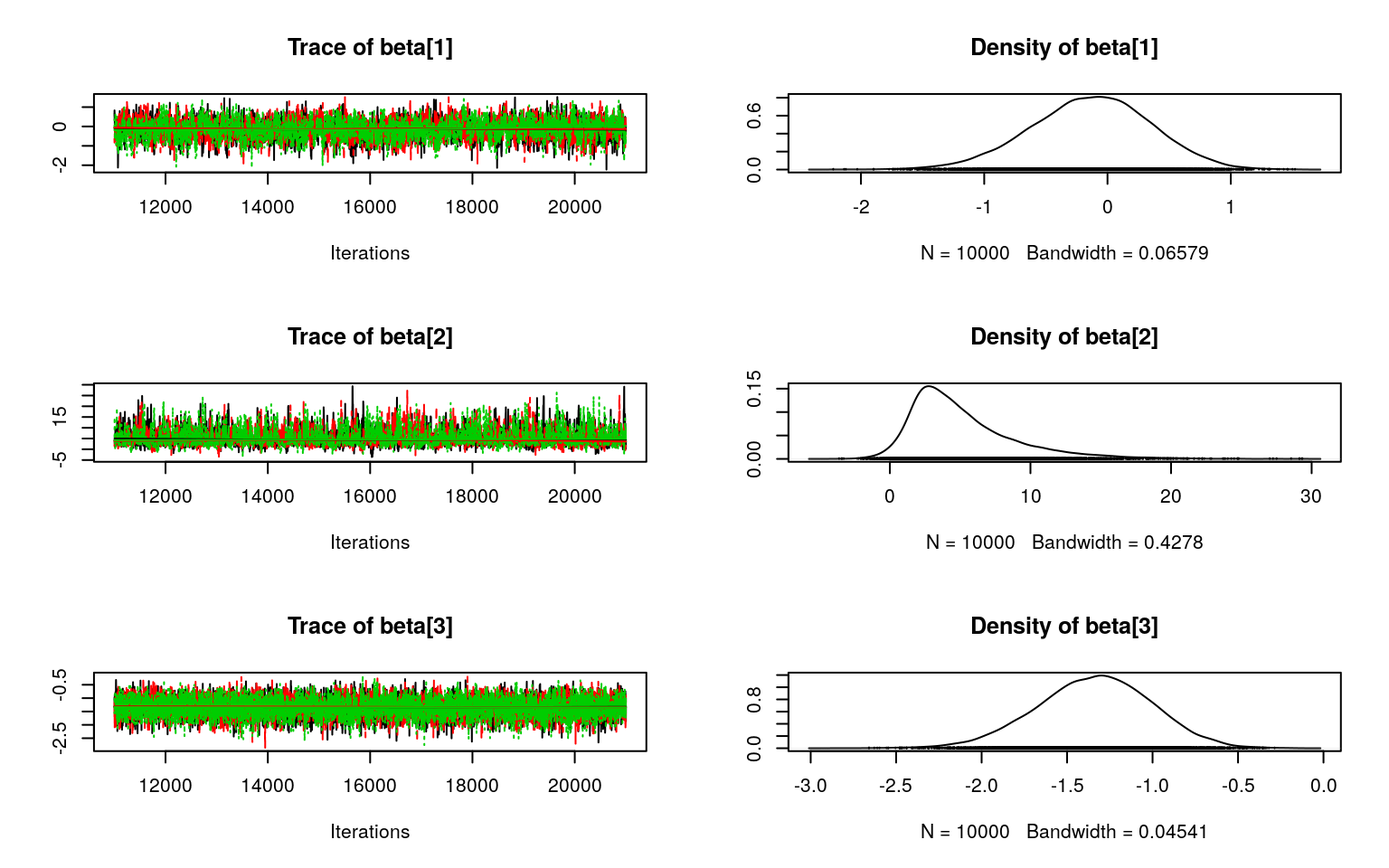
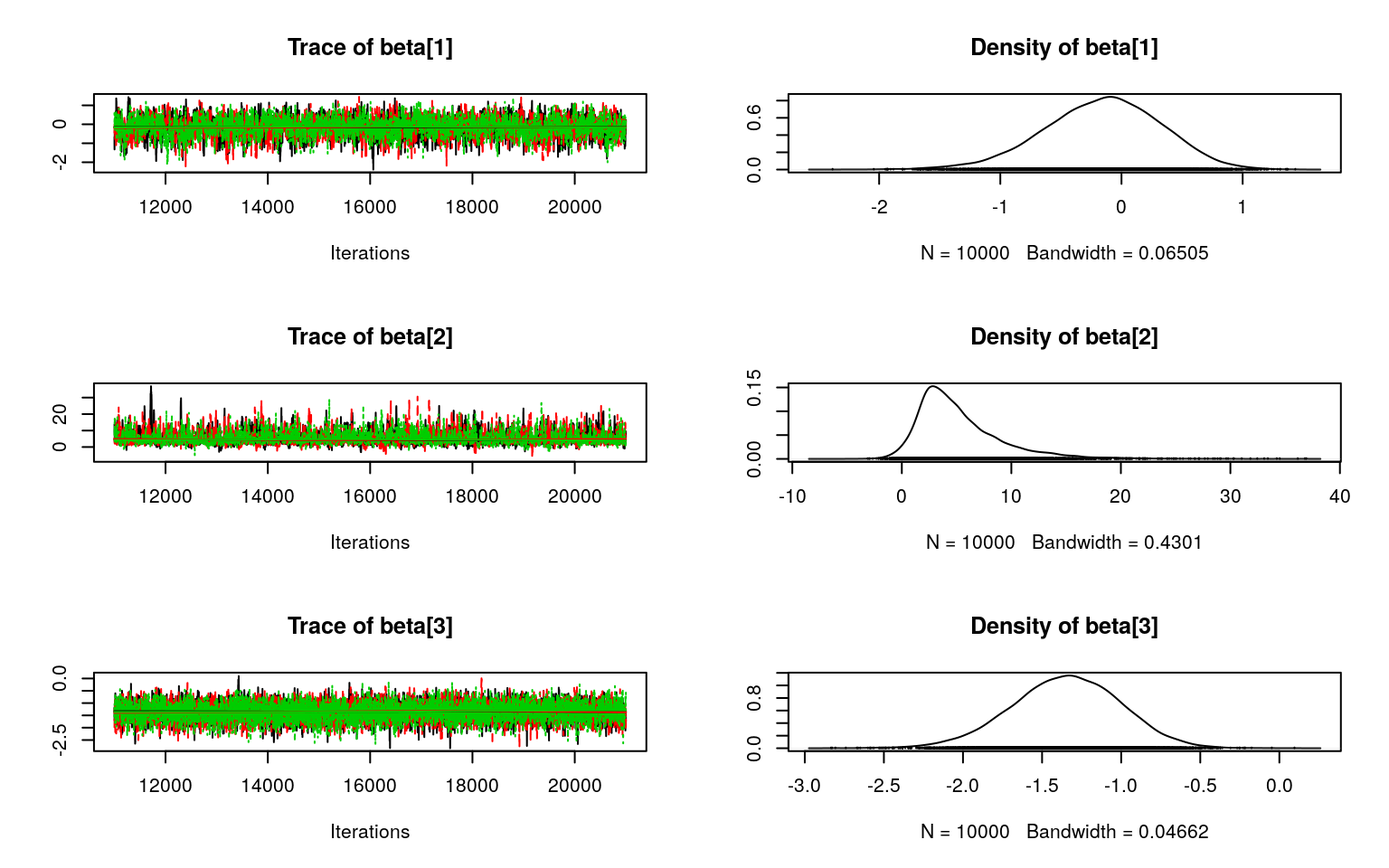
Add urls for links in occupancy post

diff --git a/docs/posts/2018-12-22-dynamic-community-occupancy-model-jags/index.html b/docs/posts/2018-12-22-dynamic-community-occupancy-model-jags/index.html
@@ -1335,25 +1335,25 @@ document.addEventListener('DOMContentLoaded', function() {
 <p>we can begin to consider occupancy. We’re interested in making inferences about the rates of colonization and population persistence for each species in a community, while estimating and accounting for imperfect detection.</p>
 <p>Occupancy status at site <span class="math inline">\(j\)</span>, by species <span class="math inline">\(i\)</span>, in year <span class="math inline">\(t\)</span> is represented by <span class="math inline">\(z(j,i,t)\)</span>. For occupied sites <span class="math inline">\(z=1\)</span>; for unoccupied sites <span class="math inline">\(z=0\)</span>. However, <span class="math inline">\(Z\)</span> is incompletely observed: it is possible that a species <span class="math inline">\(i\)</span> is present at a site <span class="math inline">\(j\)</span> in some year <span class="math inline">\(t\)</span> (<span class="math inline">\(z(j,i,t)=1\)</span>) but species <span class="math inline">\(i\)</span> was never seen at at site <span class="math inline">\(j\)</span> in year <span class="math inline">\(t\)</span> across all <span class="math inline">\(k\)</span> repeat surveys because of imperfect detection. These observations are represented by <span class="math inline">\(x(j,i,t,k)\)</span>. Here we assume that there are no “false positive” observations. In other words, if <span class="math inline">\(\sum_{1}^{k}x(j,i,t,k)&gt;0\)</span> , then <span class="math inline">\(z(j,i,t)=1\)</span>. If a site is occupied, the probability that <span class="math inline">\(x(j,i,t,k)=1\)</span> is represented as a Bernoulli trial with probability of detection <span class="math inline">\(p(j,i,t,k)\)</span>, such that</p>
 <p><span class="math display">\[
-x(j,i,t,k) \sim Bernoulli(z(j,i,t)p(j,i,t,k))
+x(j,i,t,k) \sim \text{Bernoulli}(z(j,i,t)p(j,i,t,k))
 \]</span></p>
 <p>The occupancy status <span class="math inline">\(z\)</span> of species <span class="math inline">\(i\)</span> at site <span class="math inline">\(j\)</span> in year <span class="math inline">\(t\)</span> is modeled as a Markov Bernoulli trial. In other words whether a species is present at a site in year <span class="math inline">\(t\)</span> is influenced by whether it was present at year <span class="math inline">\(t−1\)</span>.</p>
 <p><span class="math display">\[
-z(j,i,t) \sim Bernoulli(\psi_{j,i,t})
+z(j,i,t) \sim \text{Bernoulli}(\psi(j,i,t))
 \]</span></p>
 <p>where for <span class="math inline">\(t&gt;1\)</span></p>
 <p><span class="math display">\[
-logit(\psi_{j,i,t})=\beta_i + \rho_i z(i, j, t-1)
+\text{logit}(\psi_{j,i,t})=\beta_i + \rho_i z(i, j, t-1)
 \]</span></p>
 <p>and in year one <span class="math inline">\((t=1)\)</span></p>
 <p><span class="math display">\[
-logit(\psi_{j,i,1})=\beta_i + \rho_i z_0(i, j)
+\text{logit}(\psi_{j,i,1})=\beta_i + \rho_i z_0(i, j)
 \]</span></p>
-<p>where the occupancy status in year 0, <span class="math inline">\(z_0(i,j) \sim Bernoulli(\rho_{0i})\)</span>, and <span class="math inline">\(\rho_{0i} \sim Uniform(0,1)\)</span>. <span class="math inline">\(\beta_i\)</span> and <span class="math inline">\(\rho_i\)</span> are parameters that control the probabilities of colonization and persistence. If a site was unoccupied by species <span class="math inline">\(i\)</span> in a previous year <span class="math inline">\(z(i,j,t−1)=0\)</span>, then the probability of colonization is given by the antilogit of <span class="math inline">\(\beta_i\)</span>. If a site was previously occupied <span class="math inline">\(z(i,j,t−1)=1\)</span>, the probability of population persistence is given by the anitlogit of <span class="math inline">\(\beta_i + \rho_i\)</span>. We assume that the distributions of species specific parameters are defined by community level hyperparameters such that <span class="math inline">\(\beta_i \sim Norm(\mu_\beta, \sigma_\beta)\)</span> and <span class="math inline">\(rho_i \sim Norm(\mu_\rho, \sigma_\rho)\)</span>. We can generate occupancy data as follows:</p>
+<p>where the occupancy status in year 0, <span class="math inline">\(z_0(i,j) \sim \text{Bernoulli}(\rho_{0i})\)</span>, and <span class="math inline">\(\rho_{0i} \sim \text{Uniform}(0,1)\)</span>. <span class="math inline">\(\beta_i\)</span> and <span class="math inline">\(\rho_i\)</span> are parameters that control the probabilities of colonization and persistence. If a site was unoccupied by species <span class="math inline">\(i\)</span> in a previous year <span class="math inline">\(z(i,j,t−1)=0\)</span>, then the probability of colonization is given by the antilogit of <span class="math inline">\(\beta_i\)</span>. If a site was previously occupied <span class="math inline">\(z(i,j,t−1)=1\)</span>, the probability of population persistence is given by the anitlogit of <span class="math inline">\(\beta_i + \rho_i\)</span>. We assume that the distributions of species specific parameters are defined by community level hyperparameters such that <span class="math inline">\(\beta_i \sim \text{Normal}(\mu_\beta, \sigma_\beta)\)</span> and <span class="math inline">\(rho_i \sim \text{Normal}(\mu_\rho, \sigma_\rho)\)</span>. We can generate occupancy data as follows:</p>
 <div class="layout-chunk" data-layout="l-body">
 
 </div>
-<p>For simplicity, we’ll assume that there are no differences in species detectability among sites, years, or repeat surveys, but that detectability varies among species. We’ll again use hyperparameters to specify a distribution of detection probabilities in our community, such that <span class="math inline">\(logit(p_i) \sim Norm(\mu_p, \sigma_p)\)</span>.</p>
+<p>For simplicity, we’ll assume that there are no differences in species detectability among sites, years, or repeat surveys, but that detectability varies among species. We’ll again use hyperparameters to specify a distribution of detection probabilities in our community, such that <span class="math inline">\(\text{logit}(p_i) \sim \text{Normal}(\mu_p, \sigma_p)\)</span>.</p>
 <div class="layout-chunk" data-layout="l-body">
 
 </div>
@@ -1400,51 +1400,51 @@ Sample size per chain = 10000
    plus standard error of the mean:
 
              Mean     SD Naive SE Time-series SE
-beta[1] -0.136404 0.4879 0.002817       0.011299
-beta[2]  5.107996 3.7142 0.021444       0.080598
-beta[3] -1.342948 0.3370 0.001946       0.004372
-beta[4]  5.034333 3.7981 0.021928       0.095132
-lp[1]    3.869905 0.7093 0.004095       0.006394
-lp[2]    0.940678 0.1951 0.001126       0.002081
-lp[3]    2.378986 0.6247 0.003606       0.005574
-lp[4]   -0.001175 0.1919 0.001108       0.002960
-rho[1]   1.297504 0.5952 0.003436       0.014102
-rho[2]   1.660380 2.5078 0.014479       0.059563
-rho[3]   0.561936 0.6108 0.003526       0.010942
-rho[4]   1.145660 2.6906 0.015534       0.075605
+beta[1] -0.157689 0.4843 0.002796       0.010618
+beta[2]  5.202259 3.8945 0.022485       0.088729
+beta[3] -1.350593 0.3457 0.001996       0.004570
+beta[4]  5.011672 3.7619 0.021719       0.096885
+lp[1]    3.871359 0.7066 0.004080       0.006500
+lp[2]    0.938340 0.1937 0.001119       0.002011
+lp[3]    2.374913 0.6322 0.003650       0.005666
+lp[4]   -0.001276 0.1909 0.001102       0.002875
+rho[1]   1.325605 0.5899 0.003406       0.013661
+rho[2]   1.724383 2.7188 0.015697       0.085649
+rho[3]   0.576876 0.6177 0.003566       0.011654
+rho[4]   1.264257 2.8261 0.016316       0.090603
 
 2. Quantiles for each variable:
 
-           2.5%      25%      50%     75%   97.5%
-beta[1] -1.1297 -0.45672 -0.12035  0.1970  0.7851
-beta[2]  0.2229  2.53572  4.23082  6.7867 14.7987
-beta[3] -2.0239 -1.56305 -1.33150 -1.1119 -0.7059
-beta[4]  0.6354  2.46984  3.99294  6.5255 15.3499
-lp[1]    2.6790  3.37180  3.80306  4.2836  5.4722
-lp[2]    0.5758  0.80767  0.93255  1.0652  1.3462
-lp[3]    1.2649  1.94503  2.33922  2.7715  3.7230
-lp[4]   -0.3487 -0.13123 -0.01167  0.1167  0.4170
-rho[1]   0.1758  0.89454  1.27950  1.6910  2.5119
-rho[2]  -2.1637  0.43776  1.19299  2.3376  8.3312
-rho[3]  -0.6816  0.16553  0.58093  0.9767  1.7161
-rho[4]  -3.4377  0.04748  0.92744  1.8717  7.6874</code></pre>
+           2.5%     25%      50%     75%   97.5%
+beta[1] -1.1622 -0.4697 -0.13622  0.1767  0.7314
+beta[2]  0.1138  2.5813  4.28823  6.8553 15.1585
+beta[3] -2.0560 -1.5771 -1.34198 -1.1131 -0.6959
+beta[4]  0.5211  2.4385  3.97110  6.5990 14.8174
+lp[1]    2.6936  3.3733  3.80044  4.2916  5.4678
+lp[2]    0.5759  0.8056  0.93105  1.0644  1.3348
+lp[3]    1.2492  1.9377  2.33086  2.7639  3.7441
+lp[4]   -0.3497 -0.1307 -0.01108  0.1155  0.4100
+rho[1]   0.2366  0.9196  1.30965  1.7035  2.5554
+rho[2]  -2.3450  0.4488  1.23522  2.4508  8.5978
+rho[3]  -0.7079  0.1765  0.59449  1.0063  1.7092
+rho[4]  -3.5067  0.0641  0.97623  1.9416  8.3755</code></pre>
 <p><img src="dynamic-community-occupancy-model-jags_files/figure-html5/fit-model-1.png" width="768" /><img src="dynamic-community-occupancy-model-jags_files/figure-html5/fit-model-2.png" width="768" /><img src="dynamic-community-occupancy-model-jags_files/figure-html5/fit-model-3.png" width="768" /><img src="dynamic-community-occupancy-model-jags_files/figure-html5/fit-model-4.png" width="768" /></p>
 </div>
 <div id="refs" class="references">
 <div id="ref-dorazio2010models">
-<p>Dorazio, Robert M, Marc Kery, J Andrew Royle, and Matthias Plattner. 2010. “Models for Inference in Dynamic Metacommunity Systems.” <em>Ecology</em> 91 (8): 2466–75.</p>
+<p>Dorazio, Robert M, Marc Kery, J Andrew Royle, and Matthias Plattner. 2010. “Models for Inference in Dynamic Metacommunity Systems.” <em>Ecology</em> 91 (8): 2466–75. <a href="https://doi.org/10.1890/09-1033.1">https://doi.org/10.1890/09-1033.1</a>.</p>
 </div>
 <div id="ref-kery2008hierarchical">
-<p>Kéry, M, and J Andrew Royle. 2008. “Hierarchical Bayes Estimation of Species Richness and Occupancy in Spatially Replicated Surveys.” <em>Journal of Applied Ecology</em> 45 (2): 589–98.</p>
+<p>Kéry, M, and J Andrew Royle. 2008. “Hierarchical Bayes Estimation of Species Richness and Occupancy in Spatially Replicated Surveys.” <em>Journal of Applied Ecology</em> 45 (2): 589–98. <a href="https://doi.org/10.1111/j.1365-2664.2007.01441.x">https://doi.org/10.1111/j.1365-2664.2007.01441.x</a>.</p>
 </div>
 <div id="ref-mackenzie2002estimating">
-<p>MacKenzie, Darryl I, James D Nichols, Gideon B Lachman, Sam Droege, J Andrew Royle, and Catherine A Langtimm. 2002. “Estimating Site Occupancy Rates When Detection Probabilities Are Less Than One.” <em>Ecology</em> 83 (8): 2248–55.</p>
+<p>MacKenzie, Darryl I, James D Nichols, Gideon B Lachman, Sam Droege, J Andrew Royle, and Catherine A Langtimm. 2002. “Estimating Site Occupancy Rates When Detection Probabilities Are Less Than One.” <em>Ecology</em> 83 (8): 2248–55. <a href="https://doi.org/10.1890/0012-9658(2002)083[2248:ESORWD]2.0.CO;2">https://doi.org/10.1890/0012-9658(2002)083[2248:ESORWD]2.0.CO;2</a>.</p>
 </div>
 <div id="ref-royle2008hierarchical">
-<p>Royle, J Andrew, and Robert M Dorazio. 2008. <em>Hierarchical Modeling and Inference in Ecology: The Analysis of Data from Populations, Metapopulations and Communities</em>. Elsevier.</p>
+<p>Royle, J Andrew, and Robert M Dorazio. 2008. <em>Hierarchical Modeling and Inference in Ecology: The Analysis of Data from Populations, Metapopulations and Communities</em>. Elsevier. <a href="https://doi.org/10.1016/B978-0-12-374097-7.50001-5">https://doi.org/10.1016/B978-0-12-374097-7.50001-5</a>.</p>
 </div>
 <div id="ref-royle2007bayesian">
-<p>Royle, J Andrew, and Marc Kéry. 2007. “A Bayesian State-Space Formulation of Dynamic Occupancy Models.” <em>Ecology</em> 88 (7): 1813–23.</p>
+<p>Royle, J Andrew, and Marc Kéry. 2007. “A Bayesian State-Space Formulation of Dynamic Occupancy Models.” <em>Ecology</em> 88 (7): 1813–23. <a href="https://doi.org/10.1890/06-0669.1">https://doi.org/10.1890/06-0669.1</a>.</p>
 </div>
 </div>
 <!--radix_placeholder_article_footer-->
@@ -1480,7 +1480,8 @@ rho[4]  -3.4377  0.04748  0.92744  1.8717  7.6874</code></pre>
   number={8},
   pages={2248--2255},
   year={2002},
-  publisher={Wiley Online Library}
+  publisher={Wiley Online Library}, 
+  url={https://doi.org/10.1890/0012-9658(2002)083[2248:ESORWD]2.0.CO;2}
 }
 
 @article{royle2007bayesian,
@@ -1491,7 +1492,8 @@ rho[4]  -3.4377  0.04748  0.92744  1.8717  7.6874</code></pre>
   number={7},
   pages={1813--1823},
   year={2007},
-  publisher={Wiley Online Library}
+  publisher={Wiley Online Library}, 
+  url={https://doi.org/10.1890/06-0669.1}
 }
 
 @article{kery2008hierarchical,
@@ -1502,7 +1504,8 @@ rho[4]  -3.4377  0.04748  0.92744  1.8717  7.6874</code></pre>
   number={2},
   pages={589--598},
   year={2008},
-  publisher={Wiley Online Library}
+  publisher={Wiley Online Library}, 
+  url={https://doi.org/10.1111/j.1365-2664.2007.01441.x}
 }
 
 @article{dorazio2010models,
@@ -1513,14 +1516,16 @@ rho[4]  -3.4377  0.04748  0.92744  1.8717  7.6874</code></pre>
   number={8},
   pages={2466--2475},
   year={2010},
-  publisher={Wiley Online Library}
+  publisher={Wiley Online Library}, 
+  url={https://doi.org/10.1890/09-1033.1}
 }
 
 @book{royle2008hierarchical,
   title={Hierarchical modeling and inference in ecology: the analysis of data from populations, metapopulations and communities},
   author={Royle, J Andrew and Dorazio, Robert M},
   year={2008},
-  publisher={Elsevier}
+  publisher={Elsevier}, 
+  url={https://doi.org/10.1016/B978-0-12-374097-7.50001-5}
 }
 
 </script>

diff --git a/_posts/2018-12-22-dynamic-community-occupancy-model-jags/dynamic-community-occupancy-model-jags.html b/_posts/2018-12-22-dynamic-community-occupancy-model-jags/dynamic-community-occupancy-model-jags.html
@@ -977,25 +977,25 @@
 <p>we can begin to consider occupancy. We’re interested in making inferences about the rates of colonization and population persistence for each species in a community, while estimating and accounting for imperfect detection.</p>
 <p>Occupancy status at site <span class="math inline">\(j\)</span>, by species <span class="math inline">\(i\)</span>, in year <span class="math inline">\(t\)</span> is represented by <span class="math inline">\(z(j,i,t)\)</span>. For occupied sites <span class="math inline">\(z=1\)</span>; for unoccupied sites <span class="math inline">\(z=0\)</span>. However, <span class="math inline">\(Z\)</span> is incompletely observed: it is possible that a species <span class="math inline">\(i\)</span> is present at a site <span class="math inline">\(j\)</span> in some year <span class="math inline">\(t\)</span> (<span class="math inline">\(z(j,i,t)=1\)</span>) but species <span class="math inline">\(i\)</span> was never seen at at site <span class="math inline">\(j\)</span> in year <span class="math inline">\(t\)</span> across all <span class="math inline">\(k\)</span> repeat surveys because of imperfect detection. These observations are represented by <span class="math inline">\(x(j,i,t,k)\)</span>. Here we assume that there are no “false positive” observations. In other words, if <span class="math inline">\(\sum_{1}^{k}x(j,i,t,k)&gt;0\)</span> , then <span class="math inline">\(z(j,i,t)=1\)</span>. If a site is occupied, the probability that <span class="math inline">\(x(j,i,t,k)=1\)</span> is represented as a Bernoulli trial with probability of detection <span class="math inline">\(p(j,i,t,k)\)</span>, such that</p>
 <p><span class="math display">\[
-x(j,i,t,k) \sim Bernoulli(z(j,i,t)p(j,i,t,k))
+x(j,i,t,k) \sim \text{Bernoulli}(z(j,i,t)p(j,i,t,k))
 \]</span></p>
 <p>The occupancy status <span class="math inline">\(z\)</span> of species <span class="math inline">\(i\)</span> at site <span class="math inline">\(j\)</span> in year <span class="math inline">\(t\)</span> is modeled as a Markov Bernoulli trial. In other words whether a species is present at a site in year <span class="math inline">\(t\)</span> is influenced by whether it was present at year <span class="math inline">\(t−1\)</span>.</p>
 <p><span class="math display">\[
-z(j,i,t) \sim Bernoulli(\psi_{j,i,t})
+z(j,i,t) \sim \text{Bernoulli}(\psi(j,i,t))
 \]</span></p>
 <p>where for <span class="math inline">\(t&gt;1\)</span></p>
 <p><span class="math display">\[
-logit(\psi_{j,i,t})=\beta_i + \rho_i z(i, j, t-1)
+\text{logit}(\psi_{j,i,t})=\beta_i + \rho_i z(i, j, t-1)
 \]</span></p>
 <p>and in year one <span class="math inline">\((t=1)\)</span></p>
 <p><span class="math display">\[
-logit(\psi_{j,i,1})=\beta_i + \rho_i z_0(i, j)
+\text{logit}(\psi_{j,i,1})=\beta_i + \rho_i z_0(i, j)
 \]</span></p>
-<p>where the occupancy status in year 0, <span class="math inline">\(z_0(i,j) \sim Bernoulli(\rho_{0i})\)</span>, and <span class="math inline">\(\rho_{0i} \sim Uniform(0,1)\)</span>. <span class="math inline">\(\beta_i\)</span> and <span class="math inline">\(\rho_i\)</span> are parameters that control the probabilities of colonization and persistence. If a site was unoccupied by species <span class="math inline">\(i\)</span> in a previous year <span class="math inline">\(z(i,j,t−1)=0\)</span>, then the probability of colonization is given by the antilogit of <span class="math inline">\(\beta_i\)</span>. If a site was previously occupied <span class="math inline">\(z(i,j,t−1)=1\)</span>, the probability of population persistence is given by the anitlogit of <span class="math inline">\(\beta_i + \rho_i\)</span>. We assume that the distributions of species specific parameters are defined by community level hyperparameters such that <span class="math inline">\(\beta_i \sim Norm(\mu_\beta, \sigma_\beta)\)</span> and <span class="math inline">\(rho_i \sim Norm(\mu_\rho, \sigma_\rho)\)</span>. We can generate occupancy data as follows:</p>
+<p>where the occupancy status in year 0, <span class="math inline">\(z_0(i,j) \sim \text{Bernoulli}(\rho_{0i})\)</span>, and <span class="math inline">\(\rho_{0i} \sim \text{Uniform}(0,1)\)</span>. <span class="math inline">\(\beta_i\)</span> and <span class="math inline">\(\rho_i\)</span> are parameters that control the probabilities of colonization and persistence. If a site was unoccupied by species <span class="math inline">\(i\)</span> in a previous year <span class="math inline">\(z(i,j,t−1)=0\)</span>, then the probability of colonization is given by the antilogit of <span class="math inline">\(\beta_i\)</span>. If a site was previously occupied <span class="math inline">\(z(i,j,t−1)=1\)</span>, the probability of population persistence is given by the anitlogit of <span class="math inline">\(\beta_i + \rho_i\)</span>. We assume that the distributions of species specific parameters are defined by community level hyperparameters such that <span class="math inline">\(\beta_i \sim \text{Normal}(\mu_\beta, \sigma_\beta)\)</span> and <span class="math inline">\(rho_i \sim \text{Normal}(\mu_\rho, \sigma_\rho)\)</span>. We can generate occupancy data as follows:</p>
 <div class="layout-chunk" data-layout="l-body">
 
 </div>
-<p>For simplicity, we’ll assume that there are no differences in species detectability among sites, years, or repeat surveys, but that detectability varies among species. We’ll again use hyperparameters to specify a distribution of detection probabilities in our community, such that <span class="math inline">\(logit(p_i) \sim Norm(\mu_p, \sigma_p)\)</span>.</p>
+<p>For simplicity, we’ll assume that there are no differences in species detectability among sites, years, or repeat surveys, but that detectability varies among species. We’ll again use hyperparameters to specify a distribution of detection probabilities in our community, such that <span class="math inline">\(\text{logit}(p_i) \sim \text{Normal}(\mu_p, \sigma_p)\)</span>.</p>
 <div class="layout-chunk" data-layout="l-body">
 
 </div>
@@ -1042,51 +1042,51 @@ Sample size per chain = 10000
    plus standard error of the mean:
 
              Mean     SD Naive SE Time-series SE
-beta[1] -0.136404 0.4879 0.002817       0.011299
-beta[2]  5.107996 3.7142 0.021444       0.080598
-beta[3] -1.342948 0.3370 0.001946       0.004372
-beta[4]  5.034333 3.7981 0.021928       0.095132
-lp[1]    3.869905 0.7093 0.004095       0.006394
-lp[2]    0.940678 0.1951 0.001126       0.002081
-lp[3]    2.378986 0.6247 0.003606       0.005574
-lp[4]   -0.001175 0.1919 0.001108       0.002960
-rho[1]   1.297504 0.5952 0.003436       0.014102
-rho[2]   1.660380 2.5078 0.014479       0.059563
-rho[3]   0.561936 0.6108 0.003526       0.010942
-rho[4]   1.145660 2.6906 0.015534       0.075605
+beta[1] -0.157689 0.4843 0.002796       0.010618
+beta[2]  5.202259 3.8945 0.022485       0.088729
+beta[3] -1.350593 0.3457 0.001996       0.004570
+beta[4]  5.011672 3.7619 0.021719       0.096885
+lp[1]    3.871359 0.7066 0.004080       0.006500
+lp[2]    0.938340 0.1937 0.001119       0.002011
+lp[3]    2.374913 0.6322 0.003650       0.005666
+lp[4]   -0.001276 0.1909 0.001102       0.002875
+rho[1]   1.325605 0.5899 0.003406       0.013661
+rho[2]   1.724383 2.7188 0.015697       0.085649
+rho[3]   0.576876 0.6177 0.003566       0.011654
+rho[4]   1.264257 2.8261 0.016316       0.090603
 
 2. Quantiles for each variable:
 
-           2.5%      25%      50%     75%   97.5%
-beta[1] -1.1297 -0.45672 -0.12035  0.1970  0.7851
-beta[2]  0.2229  2.53572  4.23082  6.7867 14.7987
-beta[3] -2.0239 -1.56305 -1.33150 -1.1119 -0.7059
-beta[4]  0.6354  2.46984  3.99294  6.5255 15.3499
-lp[1]    2.6790  3.37180  3.80306  4.2836  5.4722
-lp[2]    0.5758  0.80767  0.93255  1.0652  1.3462
-lp[3]    1.2649  1.94503  2.33922  2.7715  3.7230
-lp[4]   -0.3487 -0.13123 -0.01167  0.1167  0.4170
-rho[1]   0.1758  0.89454  1.27950  1.6910  2.5119
-rho[2]  -2.1637  0.43776  1.19299  2.3376  8.3312
-rho[3]  -0.6816  0.16553  0.58093  0.9767  1.7161
-rho[4]  -3.4377  0.04748  0.92744  1.8717  7.6874</code></pre>
+           2.5%     25%      50%     75%   97.5%
+beta[1] -1.1622 -0.4697 -0.13622  0.1767  0.7314
+beta[2]  0.1138  2.5813  4.28823  6.8553 15.1585
+beta[3] -2.0560 -1.5771 -1.34198 -1.1131 -0.6959
+beta[4]  0.5211  2.4385  3.97110  6.5990 14.8174
+lp[1]    2.6936  3.3733  3.80044  4.2916  5.4678
+lp[2]    0.5759  0.8056  0.93105  1.0644  1.3348
+lp[3]    1.2492  1.9377  2.33086  2.7639  3.7441
+lp[4]   -0.3497 -0.1307 -0.01108  0.1155  0.4100
+rho[1]   0.2366  0.9196  1.30965  1.7035  2.5554
+rho[2]  -2.3450  0.4488  1.23522  2.4508  8.5978
+rho[3]  -0.7079  0.1765  0.59449  1.0063  1.7092
+rho[4]  -3.5067  0.0641  0.97623  1.9416  8.3755</code></pre>
 <p><img src="dynamic-community-occupancy-model-jags_files/figure-html5/fit-model-1.png" width="768" /><img src="dynamic-community-occupancy-model-jags_files/figure-html5/fit-model-2.png" width="768" /><img src="dynamic-community-occupancy-model-jags_files/figure-html5/fit-model-3.png" width="768" /><img src="dynamic-community-occupancy-model-jags_files/figure-html5/fit-model-4.png" width="768" /></p>
 </div>
 <div id="refs" class="references">
 <div id="ref-dorazio2010models">
-<p>Dorazio, Robert M, Marc Kery, J Andrew Royle, and Matthias Plattner. 2010. “Models for Inference in Dynamic Metacommunity Systems.” <em>Ecology</em> 91 (8): 2466–75.</p>
+<p>Dorazio, Robert M, Marc Kery, J Andrew Royle, and Matthias Plattner. 2010. “Models for Inference in Dynamic Metacommunity Systems.” <em>Ecology</em> 91 (8): 2466–75. <a href="https://doi.org/10.1890/09-1033.1">https://doi.org/10.1890/09-1033.1</a>.</p>
 </div>
 <div id="ref-kery2008hierarchical">
-<p>Kéry, M, and J Andrew Royle. 2008. “Hierarchical Bayes Estimation of Species Richness and Occupancy in Spatially Replicated Surveys.” <em>Journal of Applied Ecology</em> 45 (2): 589–98.</p>
+<p>Kéry, M, and J Andrew Royle. 2008. “Hierarchical Bayes Estimation of Species Richness and Occupancy in Spatially Replicated Surveys.” <em>Journal of Applied Ecology</em> 45 (2): 589–98. <a href="https://doi.org/10.1111/j.1365-2664.2007.01441.x">https://doi.org/10.1111/j.1365-2664.2007.01441.x</a>.</p>
 </div>
 <div id="ref-mackenzie2002estimating">
-<p>MacKenzie, Darryl I, James D Nichols, Gideon B Lachman, Sam Droege, J Andrew Royle, and Catherine A Langtimm. 2002. “Estimating Site Occupancy Rates When Detection Probabilities Are Less Than One.” <em>Ecology</em> 83 (8): 2248–55.</p>
+<p>MacKenzie, Darryl I, James D Nichols, Gideon B Lachman, Sam Droege, J Andrew Royle, and Catherine A Langtimm. 2002. “Estimating Site Occupancy Rates When Detection Probabilities Are Less Than One.” <em>Ecology</em> 83 (8): 2248–55. <a href="https://doi.org/10.1890/0012-9658(2002)083[2248:ESORWD]2.0.CO;2">https://doi.org/10.1890/0012-9658(2002)083[2248:ESORWD]2.0.CO;2</a>.</p>
 </div>
 <div id="ref-royle2008hierarchical">
-<p>Royle, J Andrew, and Robert M Dorazio. 2008. <em>Hierarchical Modeling and Inference in Ecology: The Analysis of Data from Populations, Metapopulations and Communities</em>. Elsevier.</p>
+<p>Royle, J Andrew, and Robert M Dorazio. 2008. <em>Hierarchical Modeling and Inference in Ecology: The Analysis of Data from Populations, Metapopulations and Communities</em>. Elsevier. <a href="https://doi.org/10.1016/B978-0-12-374097-7.50001-5">https://doi.org/10.1016/B978-0-12-374097-7.50001-5</a>.</p>
 </div>
 <div id="ref-royle2007bayesian">
-<p>Royle, J Andrew, and Marc Kéry. 2007. “A Bayesian State-Space Formulation of Dynamic Occupancy Models.” <em>Ecology</em> 88 (7): 1813–23.</p>
+<p>Royle, J Andrew, and Marc Kéry. 2007. “A Bayesian State-Space Formulation of Dynamic Occupancy Models.” <em>Ecology</em> 88 (7): 1813–23. <a href="https://doi.org/10.1890/06-0669.1">https://doi.org/10.1890/06-0669.1</a>.</p>
 </div>
 </div>
 <!--radix_placeholder_article_footer-->
@@ -1119,7 +1119,8 @@ rho[4]  -3.4377  0.04748  0.92744  1.8717  7.6874</code></pre>
   number={8},
   pages={2248--2255},
   year={2002},
-  publisher={Wiley Online Library}
+  publisher={Wiley Online Library}, 
+  url={https://doi.org/10.1890/0012-9658(2002)083[2248:ESORWD]2.0.CO;2}
 }
 
 @article{royle2007bayesian,
@@ -1130,7 +1131,8 @@ rho[4]  -3.4377  0.04748  0.92744  1.8717  7.6874</code></pre>
   number={7},
   pages={1813--1823},
   year={2007},
-  publisher={Wiley Online Library}
+  publisher={Wiley Online Library}, 
+  url={https://doi.org/10.1890/06-0669.1}
 }
 
 @article{kery2008hierarchical,
@@ -1141,7 +1143,8 @@ rho[4]  -3.4377  0.04748  0.92744  1.8717  7.6874</code></pre>
   number={2},
   pages={589--598},
   year={2008},
-  publisher={Wiley Online Library}
+  publisher={Wiley Online Library}, 
+  url={https://doi.org/10.1111/j.1365-2664.2007.01441.x}
 }
 
 @article{dorazio2010models,
@@ -1152,14 +1155,16 @@ rho[4]  -3.4377  0.04748  0.92744  1.8717  7.6874</code></pre>
   number={8},
   pages={2466--2475},
   year={2010},
-  publisher={Wiley Online Library}
+  publisher={Wiley Online Library}, 
+  url={https://doi.org/10.1890/09-1033.1}
 }
 
 @book{royle2008hierarchical,
   title={Hierarchical modeling and inference in ecology: the analysis of data from populations, metapopulations and communities},
   author={Royle, J Andrew and Dorazio, Robert M},
   year={2008},
-  publisher={Elsevier}
+  publisher={Elsevier}, 
+  url={https://doi.org/10.1016/B978-0-12-374097-7.50001-5}
 }
 
 </script>
